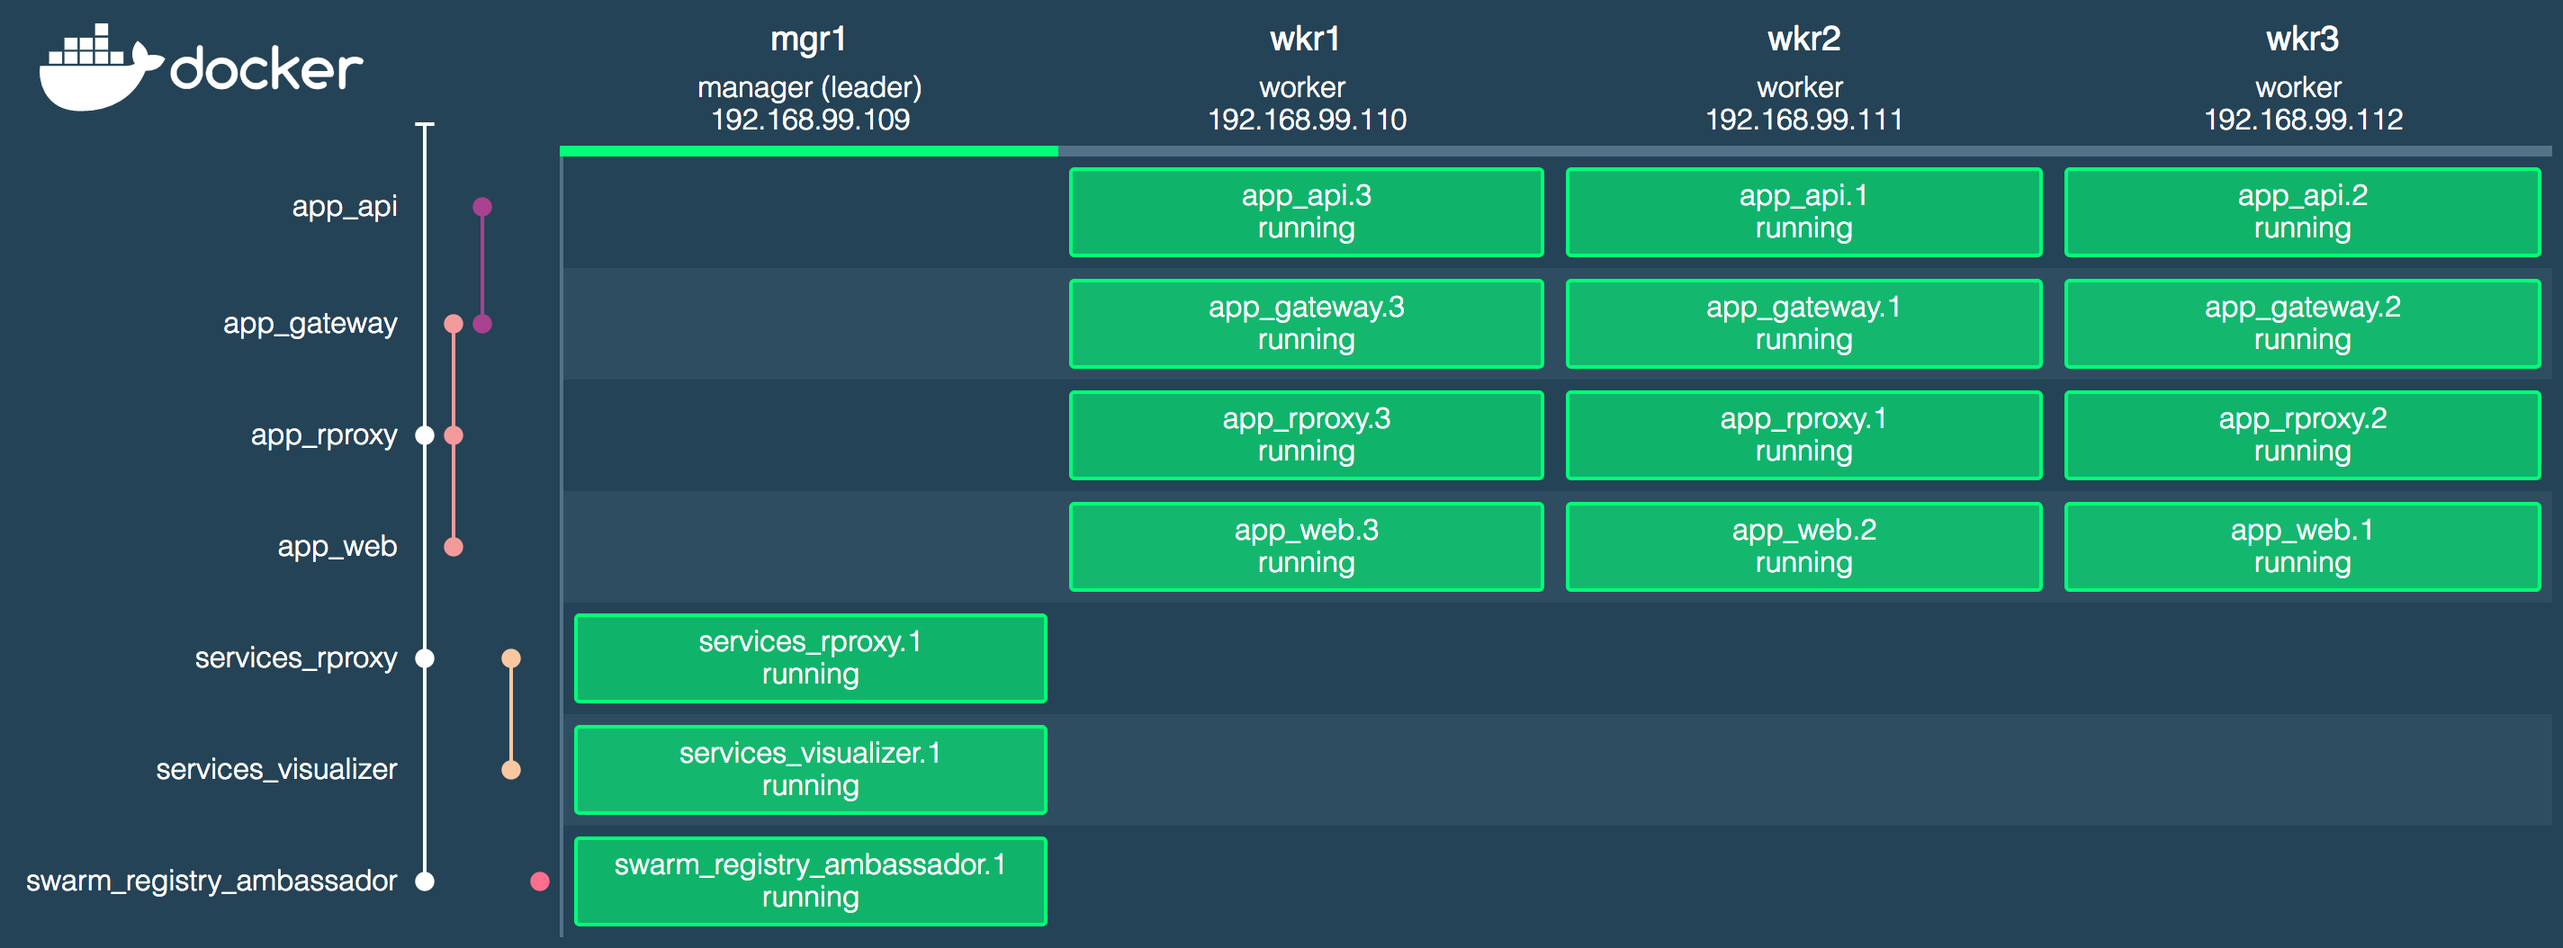
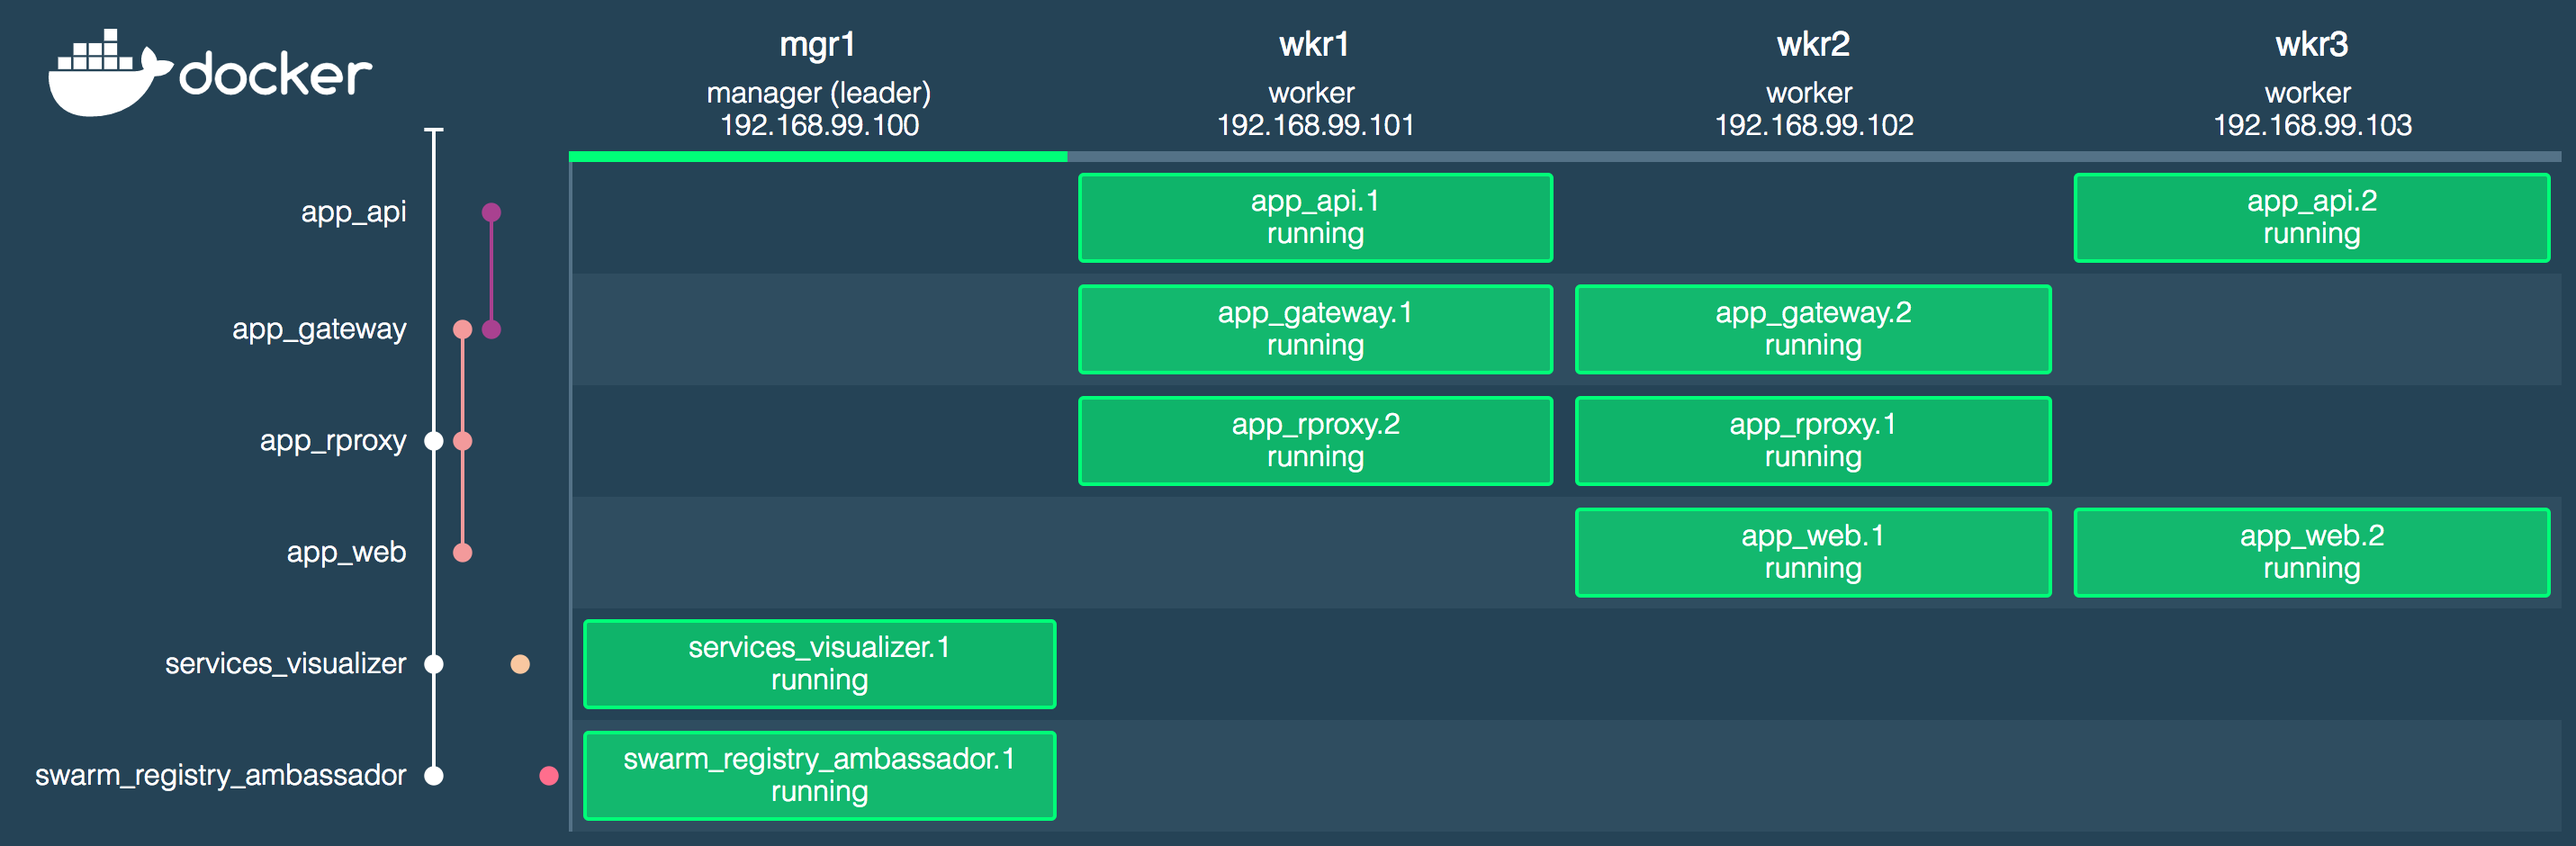
update docs

Changed region(s): [[0.2188, 0.0309, 1.0, 0.7096], [0.0, 0.1543, 0.4375, 0.9872], [0.0, 0.0309, 0.1562, 0.1543]]

diff --git a/readme.md b/readme.md
@@ -2,32 +2,43 @@
 
 This repo is a noddy web ui and proxied api (on a private network) with `version 3` compose files that are designed to be deployed into a "Docker in swarm mode" cluster.
 
-There are 5 compose files:
-  1. private Docker registry and registry mirror (external to the swarm).
-  1. `nginx` load balancer (external to the swarm).
-  1. the swarm visualizer, and its reverse proxy (`services` stack)
+There are 4 containers running outside the cluster:
+  1. private Docker registry (for pushing local images)
+  1. registry mirror (for caching public images)
+  1. `nginx` load balancer (for hostname to upstream mapping)
+  1. `dnsmasq` dns server (for `.local` tld resolution)
+
+And 3 stacks running inside the cluster:
+  1. the swarm visualizer (`services` stack)
   1. the registry ambassador (`swarm` stack)
-  1. the web and the api, and their associated reverse proxy and gateway (`app` stack).
+  1. the web and the api, and their associated reverse proxy and gateway (`app` stack)
 
 ![Swarm Visualizer](doc/visualizer.png)
 
 Incoming requests can hit any node of the swarm and will be routed to an instance of the service (that has published the port) by the swarm's mesh routing.
 
+You can also describe stack configurations (published services) in `stacks.yml` and use the configuration utility (`./provisioning/osx/configure/lib/index.js --help`) to write deployable compose-files from multiple merged compose files (includes automatic port assignment). Combined with the local `dns` server and `nginx` load balancer, this allows you to access published services by FQDNs in the form `http://service.stack.local` (in this case http://visualizer.services.local and http://web.app.local). Full documentation for the configuration utility is coming soon :-)
+
 ## To set up the cluster
 1.  Install VirtualBox and Docker for Mac (I had a few problems deploying a stack with 17.06 so maybe use 17.05 or below).
 
-1.  Run the script to create a swarm, which provisions 4 local VMs and joins them into a cluster. Take a look at the script to see how straight forward it is.
+1.  Run the script to create a swarm, which provisions 4 local VMs and joins them into a cluster. Take a look at the script to see how straight forward it is. NOTE: this script starts by removing any VMs with the names `mgr1,wkr1,wkr2,wkr3`.
 
     ```bash
     ./provisioning/osx/swarm.sh
     ```
 
-1.  Run the script to create a load balancer (also outside the swarm). Note that if the IP addresses of your VMs change, you'll need to run this script again, so that the load balancer points to the correct nodes.
+1.  Run the script to run a container with a load balancer (also outside the swarm). Note that if the IP addresses of your VMs change, you'll need to run this script again, so that the load balancer points to the correct nodes.
 
     ```sh
     ./provisioning/osx/load-balancer.sh
     ```
-1.  Run the script to create a local private Docker registry and a local mirror of Docker hub.
+1.  Run the script to run a container with a local dns server (also outside the swarm). This is an instance of `dnsmasq` and it used to resolve the tld `.local` to `localhost`.
+
+    ```sh
+    ./provisioning/osx/dns.sh
+    ```
+1.  Run the script to create containers for a local private Docker registry and a local mirror of Docker hub.
 
     ```sh
     ./provisioning/osx/registry.sh
@@ -48,6 +59,12 @@ Incoming requests can hit any node of the swarm and will be routed to an instanc
     printf 'sssshhhh!' | on-swarm docker secret create my_secret -
     ```
 
+1.  Run the `configure` utility to generate deployable compose-files with correct ports. It also can update the load balancer with the new configuration if you specify `-u`.
+
+    ```sh
+    ./provisioning/osx/configure/lib/index.js -u
+    ```
+
 1.  Build, push and deploy the services stack
 
     ```sh
@@ -60,19 +77,31 @@ Incoming requests can hit any node of the swarm and will be routed to an instanc
     ./deploy-app.sh
     ```
 
-    The app should now be available at http://localhost and the visualizer at http://localhost/_cluster/swarm/
+    The app should now be available at http://web.app.local and the visualizer at http://visualizer.services.local
 
 You should now see all the services running:
 
 ```sh
 on-swarm docker service ls
-ID            NAME                 MODE        REPLICAS  IMAGE
-16aozwerflj8  app_web              replicated  3/3       localhost:5000/web:latest
-8nyovw1xqnwh  app_rproxy           replicated  3/3       localhost:5000/app_rproxy:latest
-d0p2a0toiizi  app_api              replicated  3/3       localhost:5000/api:latest
-ivea53e00djo  services_rproxy      replicated  1/1       localhost:5000/services_rproxy:latest
-n1m32eri5qay  services_visualizer  replicated  1/1       charypar/swarm-dashboard:latest
-v6ex7zwvvbng  app_gateway          replicated  3/3       localhost:5000/proxy:latest
+
+ID                  NAME                        MODE                REPLICAS            IMAGE                              PORTS
+3qztnky5jkkw        swarm_registry_ambassador   replicated          1/1                 svendowideit/ambassador:latest     *:5000->5000/tcp
+ganvtcr24zmp        app_web                     replicated          2/2                 localhost:5000/web:latest
+jzco4rlqyg52        app_gateway                 replicated          2/2                 localhost:5000/proxy:latest
+mgo4je3ug8eg        services_visualizer         replicated          1/1                 charypar/swarm-dashboard:latest    *:8000->3000/tcp
+nonwzdp91sb3        app_rproxy                  replicated          2/2                 localhost:5000/app_rproxy:latest   *:8001->3000/tcp
+wblj76ieyw6z        app_api                     replicated          2/2                 localhost:5000/api:latest
+```
+
+And the following local containers running:
+
+```sh
+on-local docker ps
+CONTAINER ID        IMAGE               COMMAND                  CREATED             STATUS              PORTS                                    NAMES
+fbff0358c773        andyshinn/dnsmasq   "dnsmasq -k -d -A ..."   9 hours ago         Up 9 hours          0.0.0.0:53->53/tcp, 0.0.0.0:53->53/udp   dns_dns_1
+dc929dc479e0        nginx               "nginx -g 'daemon ..."   46 hours ago        Up 46 hours         0.0.0.0:80->80/tcp                       loadbalancer_load_balancer_1
+6e2686acd14a        registry:2          "/entrypoint.sh /e..."   46 hours ago        Up 46 hours         0.0.0.0:5001->5000/tcp                   registry_registry-mirror_1
+a578c7c8703c        registry:2          "/entrypoint.sh /e..."   46 hours ago        Up 46 hours         0.0.0.0:5000->5000/tcp                   registry_registry_1
 ```
 
 ## Cleaning up
